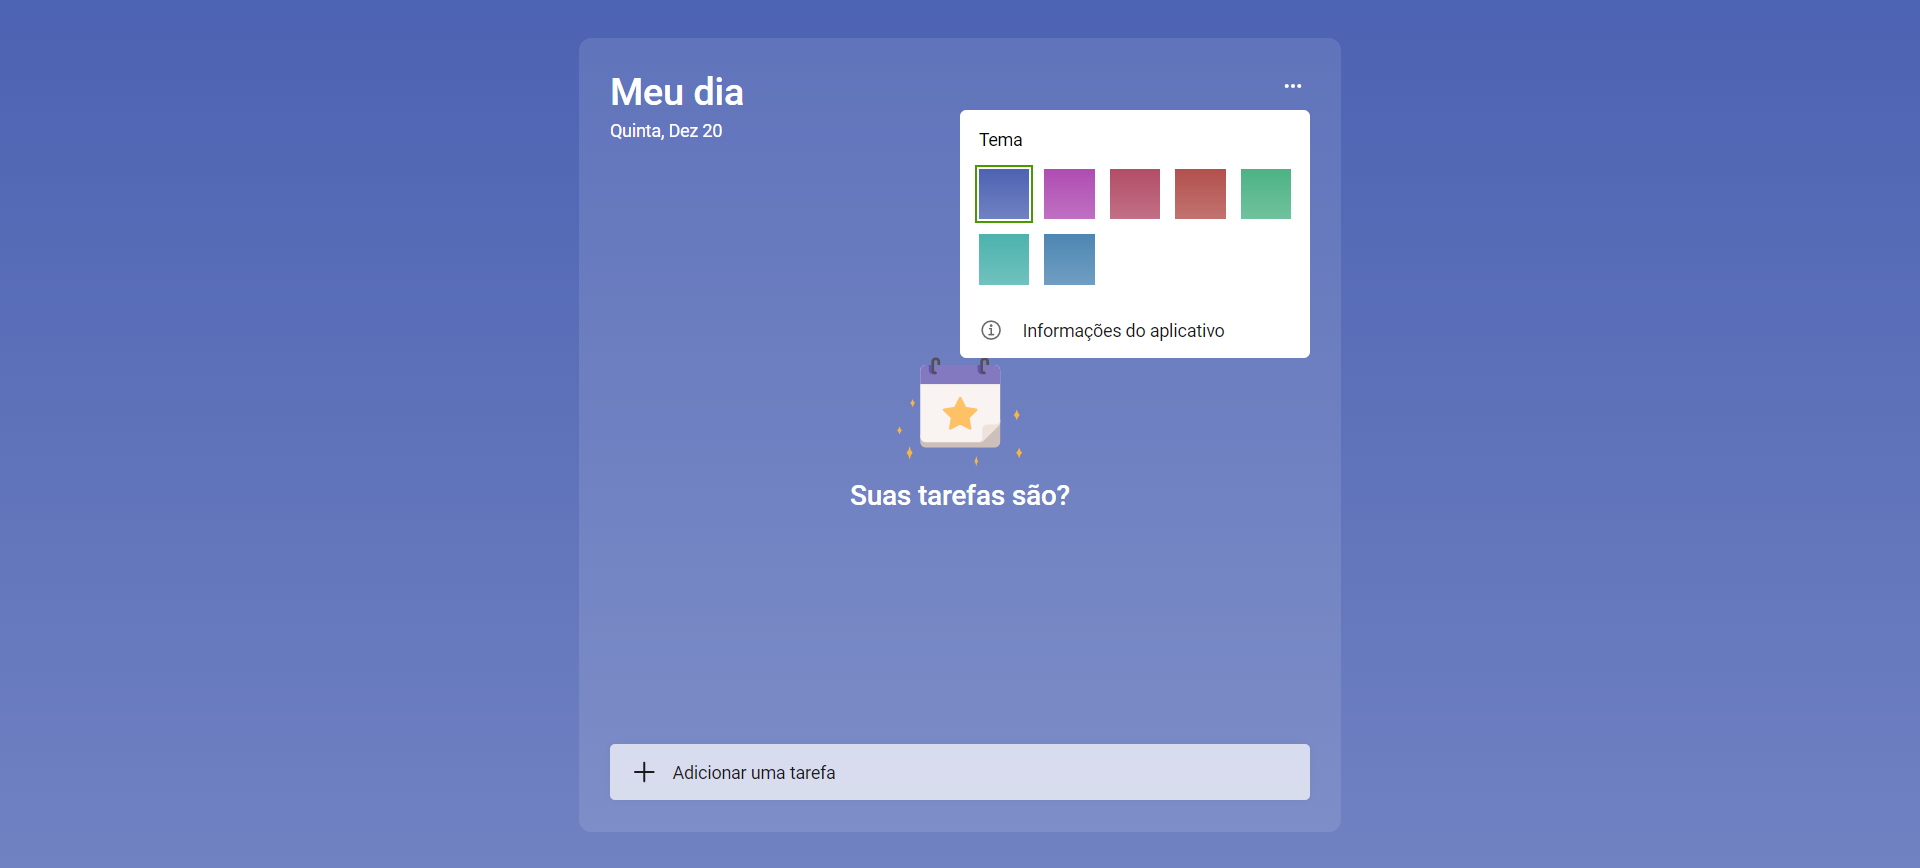
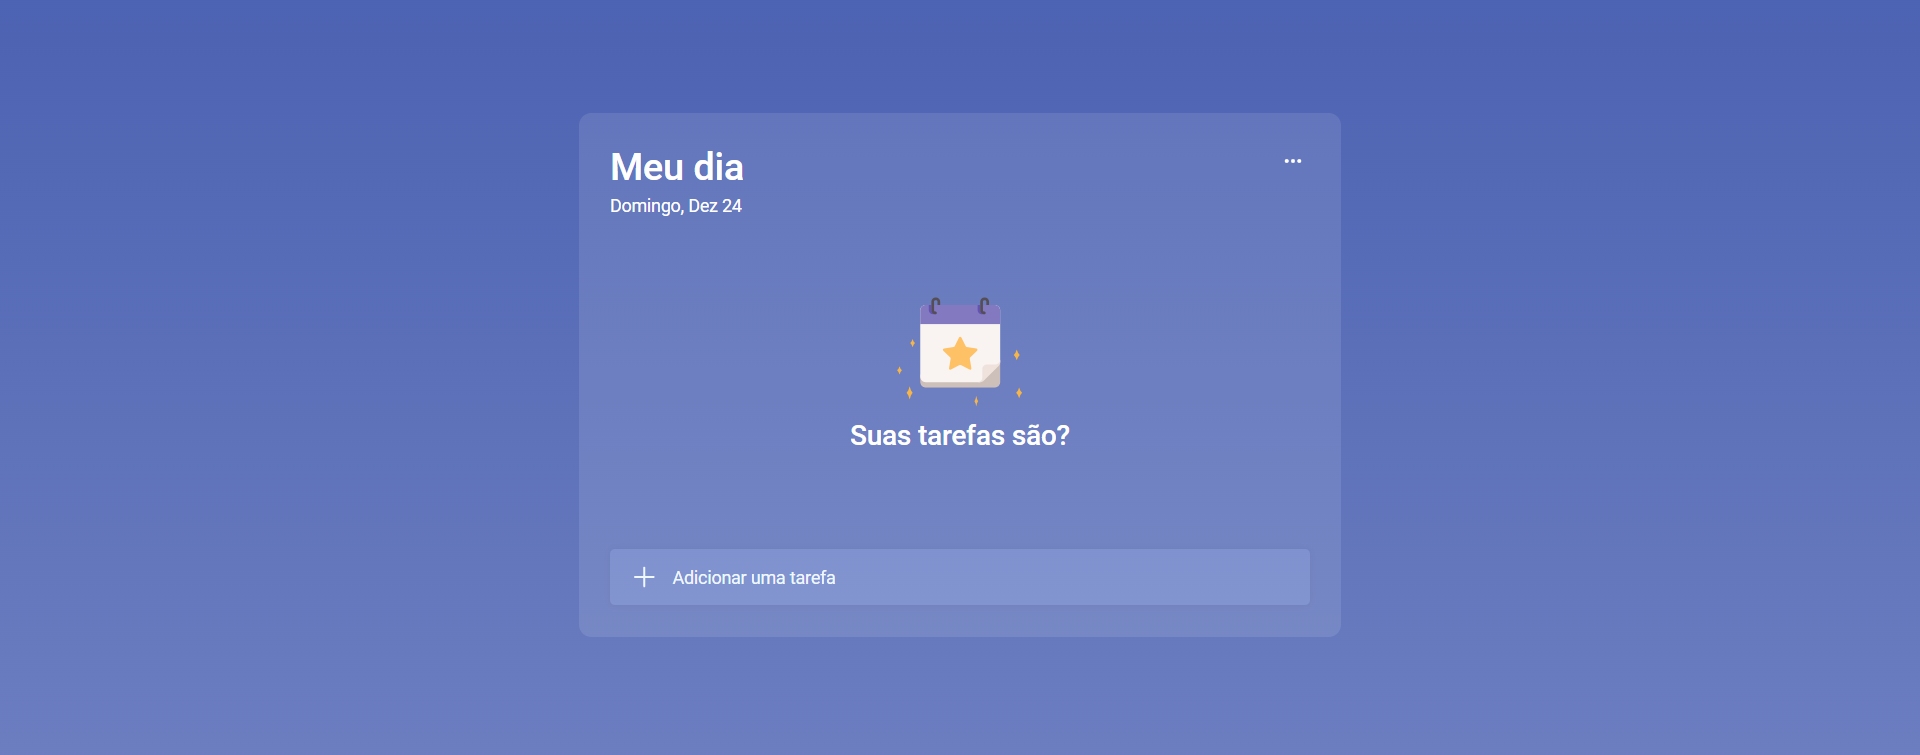
novas funcionalidades e atualizações

diff --git a/assets/css/style.css b/assets/css/style.css
@@ -109,6 +109,7 @@ html {
 }
 
 body {
+  margin-top: 60px;
   background-image: var(--theme-bg);
   color: var(--eerie-black);
   font-size: 1.6rem;
@@ -140,7 +141,7 @@ body.loaded {
 .container,
 .main,
 .app-box {
-  height: 100%;
+  height: 90%;
 }
 
 .h1,
@@ -157,6 +158,7 @@ body.loaded {
 }
 
 .app-box {
+  overflow: hidden;
   position: relative;
   z-index: 1;
 }
@@ -310,6 +312,7 @@ body.loaded {
 }
 
 .task-list {
+  overflow: hidden;
   margin-block: 20px;
   max-height: calc(100vh - 200px);
   padding-inline-end: 4px;
@@ -427,7 +430,7 @@ body.loaded {
 
 .task-item .item-action-btn {
   margin-inline-start: auto;
-  color: var(--dim-gray);
+  color: red;
   opacity: 0;
 }
 
@@ -451,7 +454,7 @@ body.loaded {
 }
 
 .input-field {
-  background-color: var(--white_70);
+  background-color: rgba(177, 203, 255, 0.195);
   color: var(--eerie-black);
   font-size: var(--fs-4);
   padding: 14px;
@@ -461,7 +464,7 @@ body.loaded {
 }
 
 .input-field::placeholder {
-  color: var(--dim-gray);
+  color: white;
   opacity: 0;
 }
 
@@ -470,7 +473,8 @@ body.loaded {
 }
 
 .input-field:is(:hover, :focus) {
-  background-color: var(--white_80);
+  background-color: rgba(140, 178, 255, 0.284);
+  color: aliceblue;
   outline: none;
 }
 
@@ -482,22 +486,25 @@ body.loaded {
 }
 
 .input-text {
+  color: aliceblue;
   left: 50px;
   font-size: var(--fs-4);
   pointer-events: none;
 }
 
 .input-icon {
+  color: aliceblue;
   left: 14px;
   font-size: 26px;
 }
 
 .input-field:is(:not(:placeholder-shown), :focus)~.input-text {
+  color: aliceblue;
   opacity: 0;
 }
 
 .input-icon .circle-icon {
-  color: var(--davys-gray);
+  color: rgb(255, 255, 255);
   --ionicon-stroke-width: 40px;
 }
 

diff --git a/index.html b/index.html
@@ -5,7 +5,7 @@
   <meta charset="UTF-8">
   <meta http-equiv="X-UA-Compatible" content="IE=edge">
   <meta name="viewport" content="width=device-width, initial-scale=1.0">
-  <title>Amigo de tarefas</title>
+  <title>Taskbuddy - Amigo de tarefas</title>
   <link rel="shortcut icon" href="./favicon.svg" type="image/svg+xml">
   <link rel="stylesheet" href="./assets/css/style.css">
   <link rel="preconnect" href="https://fonts.googleapis.com">
@@ -65,7 +65,7 @@
 
         <ul class="task-list" data-task-list></ul>
 
-        <div class="input-wrapper" title="Adicione uma tarefa em 'Meu dia'">
+        <div class="input-wrapper" title="Adicione uma tarefa em seu dia 'limite de 100 caracteres'">
 
           <input type="text" name="task" aria-label="Add task" maxlength="100"
             placeholder="Tente digitar 'Correr 20 minutos de manhã'" class="input-field" data-task-input>
@@ -101,13 +101,13 @@
             <li class="modal-item">
               <strong class="strong">Última atualização:</strong>
 
-              <span class="span">20 Dezembro 2023</span>
+              <span class="span">24 Dezembro 2023</span>
             </li>
 
             <li class="modal-item">
               <strong class="strong">Criado por:</strong>
 
-              <a href="https://danielengineer.com/" target="_blank" class="span">Daniel Engineer</a>
+              <a href="https://www.linkedin.com/in/danielengineer" target="_blank" class="span">Daniel Engineer</a>
             </li>
           </ul>
 
@@ -123,4 +123,5 @@
   <script nomodule src="https://unpkg.com/ionicons@5.5.2/dist/ionicons/ionicons.js"></script>
 
 </body>
+
 </html>

diff --git a/assets/js/script.js b/assets/js/script.js
@@ -18,21 +18,21 @@ const taskCompleteSound = new Audio("./assets/sounds/task-complete.mp3");
 const getWeekDayName = function (dayNumber) {
   switch (dayNumber) {
     case 0:
-      return "Segunda";
-    case 1:
-      return "Terça";
-    case 2:
-      return "Quarta";
-    case 3:
-      return "Quinta";
-    case 4:
-      return "Sexta";
-    case 5:
-      return "Sábado";
-    case 6:
       return "Domingo";
+    case 1:
+      return "Segunda";
+    case 2:
+      return "Terça";
+    case 3:
+      return "Quarta";
+    case 4:
+      return "Quinta";
+    case 5:
+      return "Sexta";
+    case 6:
+      return "Sábado";
     default:
-      return "Não é um dia válido";
+      return "Fim de semana chegou!";
   }
 }
 const getMonthName = function (monthNumber) {
@@ -121,7 +121,7 @@ const taskInputValidation = function (taskIsValid) {
     taskRemover = document.querySelectorAll("[data-task-remove]");
 
   } else {
-    console.log("Please write something!");
+    console.log("Por favor, escreva alguma coisa!");
   }
 }
 

diff --git a/README.md b/README.md
@@ -16,21 +16,22 @@
 ### Capturas de tela de demonstração
 
 ![Demonstração da área de trabalho do Taskbuddy](./readme-images/desktop.png "Demonstração de área de trabalho")
+![Demonstração da área de trabalho do Taskbuddy](./readme-images/desktop-2.png "Demonstração de área de trabalho")
 
-### Pré-requisitos
+<b>Pré-requisitos</b>
 
 Antes de começar, certifique-se de atender aos seguintes requisitos:
 
-* [Git](https://git-scm.com/downloads "Download Git") deve ser instalado em seu sistema operacional.
+[Git](https://git-scm.com/downloads "Download Git") deve ser instalado em seu sistema operacional.
 
-### Execute localmente
+Execute localmente
 
-Para executar o **Taskbuddy** localmente, execute este comando em seu git bash:
+Para executar o <b>Taskbuddy</b> localmente, execute este comando em seu git bash:
 
 Linux e macOS:
 
 ```bash
-sudo git clone https://github.com/codewithsadee/taskbuddy.git
+git clone https://github.com/codewithsadee/taskbuddy.git
 ```
 
 Windows:
@@ -38,22 +39,27 @@ Windows:
 ```bash
 git clone https://github.com/codewithsadee/taskbuddy.git
 ```
+Depois de clonar o repositório, acesse o projeto com o seguinte comando:
 
-### Contato
+```bash
+cd nome-do-repositorio
+```
+
+<b>Contato</b>
 
 Se você quiser entrar em contato comigo, sinta-se a vontade.  
 
-<a href="https://linkedin.com/in/danie1portela" target="_blank">
+<a href="https://linkedin.com/in/danielengineer" target="_blank">
   <img align="center" src="https://img.shields.io/badge/ - LinkedIn-05122A?style=flat&logo=linkedin" alt="linkedin"/>
 </a>
- <a href="https://instagram.com/danielfront_" target="_blank">
+ <a href="https://instagram.com/daniel.engineer" target="_blank">
  <img align="center" src="https://img.shields.io/badge/ - Instagram-05122A?style=flat&logo=instagram" alt="instagram"/>
 </a>
  <a href="https://wa.me/77999109489" target="_blank">
  <img align="center" src="https://img.shields.io/badge/-Whatsapp-05122A?style=flat&logo=whatsapp" alt="whatsapp"/>
 </a>
 
-### Licença
+<br><b>Licença</b>
 
-Este projeto é **de uso gratuito** e não contém nenhuma licença.
+Este projeto é de uso gratuito e não contém nenhuma licença.
 
